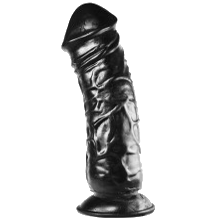
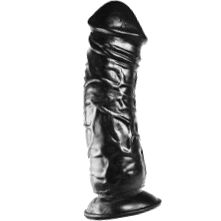
2 Gowns, bits and different Left + Top within groups
Puffball and Hobble gowns.
Bondage bouquet
Individual assets within a group can be given their own Left and Top attributes.
Slight change to preview pics fo to penis dildo and plug.

One known possible issue.
The Bondage bouquet only cuffs the persons wrists in front of them and should really prevent them from doing things, like the FullBodyShackles. For example once the bridesmaids are fully dressed with their bouquet, they can still help prepair the bride (When the wedding part is ready mittens can be applied if necissery). They do not "Block" the player. This means though that the rescue maid in the main hall will not notice the bouquet on it's own or remove it when they remove other bondage.

Changed region(s): [[0.2715, 0.0, 0.733, 1.0]]

diff --git a/BondageClub/Assets/Female3DCG/Female3DCG.js b/BondageClub/Assets/Female3DCG/Female3DCG.js
@@ -85,6 +85,8 @@ var AssetFemale3DCG = [
 			{ Name: "ShoulderlessTop", Value: 40, HideItem: ["ItemNipplesPiercingsRoundPiercing", "ItemNipplesPiercingsWeightedPiercing"] },
 			{ Name: "Dress3", Value: 80, Hide: ["ClothLower"], HideItem: [ "ItemNipplesPiercingsRoundPiercing", "ItemNipplesPiercingsWeightedPiercing", "ItemDevicesStrapOnSmooth", "ItemDevicesStrapOnStuds"] },
 			{ Name: "ComfyTop", Value: 60, Hide: ["ItemNipples", "ItemNipplesPiercings"], Expose: ["ItemVulva", "ItemVulvaPiercings", "ItemButt"] },
+			{ Name: "Gown1", Value: 70, HideItem: ["ClothLowerLatexSkirt1", "ClothLowerLatexSkirt2", "ClothLowerSkirt1", "ClothLowerSkirt2", "ClothLowerSkirt3", "ClothLowerTennisSkirt1", "ClothLowerClothSkirt1", "ItemNipplesPiercingsRoundPiercing", "ItemNipplesPiercingsWeightedPiercing", "ItemDevicesStrapOnSmooth", "ItemDevicesStrapOnStuds"] },
+			{ Name: "Gown2Top", Value: 90, BuyGroup: "Gown2", Left: 125, Top: 220, Require: ["ClothLower"], HideItem: ["ItemNipplesPiercingsRoundPiercing", "ItemNipplesPiercingsWeightedPiercing", "ItemDevicesStrapOnSmooth", "ItemDevicesStrapOnStuds"] }
 		]
 	},
 
@@ -162,7 +164,8 @@ var AssetFemale3DCG = [
 			{ Name: "LatexSkirt2", Priority: 26, Value: 60, Expose: ["ItemVulva", "ItemVulvaPiercings", "ItemButt"], HideItem: ["ItemDevicesStrapOnSmooth", "ItemDevicesStrapOnStuds"] },
 			{ Name: "ClothSkirt1", Priority: 26, Value: 40, Expose: ["ItemVulva", "ItemVulvaPiercings", "ItemButt"], HideItem: ["ItemDevicesStrapOnSmooth", "ItemDevicesStrapOnStuds"] },
 			{ Name: "Jeans2", Priority: 22, Hide: ["ItemVulvaPiercings"], HideItem: ["ItemButtAnalBeads2", "SocksSocksFur", "SocksSocks6", "VibratingLatexPanties", "WandBelt", "VibratingDildo", "InflatableVibeDildo", "ClitSuctionCup", "TapeStrips", "BenWaBalls", "HeavyWeightClamp"], Value: 20 },
-			{ Name: "ChineseSkirt1", Priority: 26, Value: 40, Expose: ["ItemVulva", "ItemVulvaPiercings", "ItemButt"], HideItem: ["ItemDevicesStrapOnSmooth", "ItemDevicesStrapOnStuds"] }
+			{ Name: "ChineseSkirt1", Priority: 26, Value: 40, Expose: ["ItemVulva", "ItemVulvaPiercings", "ItemButt"], HideItem: ["ItemDevicesStrapOnSmooth", "ItemDevicesStrapOnStuds"] },
+			{ Name: "Gown2Skirt", Priority: 26, Value: -1, BuyGroup: "Gown2", Left: 50, Top: 462, ParentItem: "Gown2Top", SetPose: ["LegsClosed"], HideItem: ["ItemDevicesStrapOnSmooth", "ItemDevicesStrapOnStuds"] }
 		]
 	},
 
@@ -1122,9 +1125,10 @@ var AssetFemale3DCG = [
 			{ Name: "Manacles", Random: false, Value: 120, AllowLock: true, SelfBondage: false, Difficulty: 16, SetPose: ["BackBoxTie", "Kneel"], Effect: ["Block", "Freeze", "Prone", "ForceKneel"], Time: 30, Prerequisite: ["NoItemFeet", "NotMounted", "NotSuspended", "NotHogtied", "NotKneelingSpread"], Block: ["ItemFeet"] },
 			{ Name: "FullBodyShackles", Random: false, Value: 150, AllowLock: true, Difficulty: 18, AllowPose: ["LegsClosed", "Kneel"], Effect: ["Prone", "Shackled"], Prerequisite: ["NoItemFeet", "NotMounted", "NotSuspended", "NotHogtied", "NotKneelingSpread"], Block: ["ItemFeet"]},
 			{ Name: "WristShackles", Random: false, Value: 80, AllowPose: ["BackCuffs"], Time: 20, Difficulty: 6, Extended: true, AllowLock: true, AllowEffect: ["Block", "Prone"], Effect: ["Prone"], AllowType: ["Behind"] },
-			{ Name: "StraitLeotard", DefaultColor: "#70C0C0", SelfBondage: false, SelfUnlock: false, Value: 120, SetPose: ["BackElbowTouch"], Hide: ["Cloth", "ItemNipplesPiercings"], HideItem: ["ItemButtAnalBeads2", "ClothLowerSkirt1", "ClothLowerSkirt2", "ClothLowerSkirt3", "ClothLowerTennisSkirt1", "ItemVulvaVibratingDildo", "ItemVulvaInflatableVibeDildo", "ItemVulvaClitSuctionCup"], Block: ["ItemNipples", "ItemNipplesPiercings", "ItemVulva", "ItemVulvaPiercings", "ItemButt", "ItemPelvis", "ItemTorso", "ItemBreast", "ItemHands"], Effect: ["Block", "Prone"], Time: 35, RemoveTime: 20, Difficulty: 13, AllowLock: true },
-			{ Name: "StraitJacket", DefaultColor: "#A0A0A0", SelfBondage: false, SelfUnlock: false, Extended: true, Value: 150, SetPose: ["BackElbowTouch"], Hide: ["Cloth", "ItemNipplesPiercings"], HideItem: ["ClothLowerSkirt1", "ClothLowerSkirt2", "ClothLowerSkirt3", "ClothLowerTennisSkirt1"], Block: ["ItemNipples", "ItemNipplesPiercings", "ItemTorso", "ItemBreast", "ItemHands"], Effect: ["Block", "Prone"], Time: 35, RemoveTime: 20, Difficulty: 6, AllowLock: true },	
-			{ Name: "CollarCuffs", SelfBondage: false, SelfUnlock: false, Extended: true, Value: 60, Prerequisite: "Collared", SetPose: ["BackBoxTie"], Block: ["ItemHands", "ItemNeck"], Effect: ["Block", "Prone"], Time: 35, RemoveTime: 20, Difficulty: 9, AllowLock: true, Visible: false },	{ Name: "LeatherStraitJacket", SelfBondage: false, SelfUnlock: false, Extended: true, Value: 200, SetPose: ["BackElbowTouch"], Hide: ["Cloth", "ItemNipplesPiercings"], HideItem: ["ClothLowerSkirt1", "ClothLowerTennisSkirt1"], Block: ["ItemNipples", "ItemNipplesPiercings", "ItemTorso", "ItemBreast", "ItemHands"], Effect: ["Block", "Prone"], Time: 45, RemoveTime: 30, Difficulty: 7, AllowLock: true, AllowType: ["Normal", "Snug", "Tight"] },
+			{ Name: "StraitLeotard", DefaultColor: "#70C0C0", SelfBondage: false, SelfUnlock: false, Value: 120, SetPose: ["BackElbowTouch"], Hide: ["Cloth", "ItemNipplesPiercings"], HideItem: ["ItemButtAnalBeads2", "ClothLowerSkirt1", "ClothLowerSkirt2", "ClothLowerSkirt3", "ClothLowerTennisSkirt1", "ClothLowerGown2Skirt", "ItemVulvaVibratingDildo", "ItemVulvaInflatableVibeDildo", "ItemVulvaClitSuctionCup"], Block: ["ItemNipples", "ItemNipplesPiercings", "ItemVulva", "ItemVulvaPiercings", "ItemButt", "ItemPelvis", "ItemTorso", "ItemBreast", "ItemHands"], Effect: ["Block", "Prone"], Time: 35, RemoveTime: 20, Difficulty: 13, AllowLock: true },
+			{ Name: "StraitJacket", DefaultColor: "#A0A0A0", SelfBondage: false, SelfUnlock: false, Extended: true, Value: 150, SetPose: ["BackElbowTouch"], Hide: ["Cloth", "ItemNipplesPiercings"], HideItem: ["ClothLowerSkirt1", "ClothLowerSkirt2", "ClothLowerSkirt3", "ClothLowerTennisSkirt1", "ClothLowerGown2Skirt"], Block: ["ItemNipples", "ItemNipplesPiercings", "ItemTorso", "ItemBreast", "ItemHands"], Effect: ["Block", "Prone"], Time: 35, RemoveTime: 20, Difficulty: 6, AllowLock: true },	
+			{ Name: "CollarCuffs", SelfBondage: false, SelfUnlock: false, Extended: true, Value: 60, Prerequisite: "Collared", SetPose: ["BackBoxTie"], Block: ["ItemHands", "ItemNeck"], Effect: ["Block", "Prone"], Time: 35, RemoveTime: 20, Difficulty: 9, AllowLock: true, Visible: false },
+			{ Name: "LeatherStraitJacket", SelfBondage: false, SelfUnlock: false, Extended: true, Value: 200, SetPose: ["BackElbowTouch"], Hide: ["Cloth", "ItemNipplesPiercings"], HideItem: ["ClothLowerSkirt1", "ClothLowerSkirt2", "ClothLowerSkirt3", "ClothLowerTennisSkirt1", "ClothLowerGown2Skirt"], Block: ["ItemNipples", "ItemNipplesPiercings", "ItemTorso", "ItemBreast", "ItemHands"], Effect: ["Block", "Prone"], Time: 45, RemoveTime: 30, Difficulty: 7, AllowLock: true, AllowType: ["Normal", "Snug", "Tight"] },
 			{ 
 				Name: "Bolero", DefaultColor: "#E080A0", SelfBondage: false, SelfUnlock: false, Value: 100, SetPose: ["BackElbowTouch", "Bolero"], Block: ["ItemHands"], Effect: ["Block", "Prone"], Time: 35, RemoveTime: 20, Difficulty: 11, AllowLock: true,
 				Layer: [
@@ -1192,6 +1196,13 @@ var AssetFemale3DCG = [
 			},
 			{ Name: "Zipties", SelfBondage: true, Value: 20, SetPose: ["BackElbowTouch"], Effect: ["Block", "Prone"], Difficulty: 6, BuyGroup: "Zipties", RemoveTime: 6 },
 			{ Name: "BoxTieArmbinder", SelfBondage: false, SelfUnlock: false, Value: 140, SetPose: ["BackElbowTouch", "Bolero"], Block: ["ItemHands"], Effect: ["Block", "Prone"], Time: 40, RemoveTime: 30, Difficulty: 11, AllowLock: true },
+			{ 
+				Name: "BondageBouquet", Value: 40, Priority: 35, Effect: ["Prone"], Time: 15, AllowLock: true, Random: false,
+				Layer: [
+					{ Name: "Base", AllowColorize: false },
+					{ Name: "Flowers", AllowColorize: true }
+				]
+			},
 			AssetSpankingToys
 		]
 	},

diff --git a/BondageClub/Scripts/GLDraw.js b/BondageClub/Scripts/GLDraw.js
@@ -330,6 +330,8 @@ function GLDrawAppearanceBuild(C) {
             // Find the X and Y position to draw on
             var X = CA.Asset.Group.DrawingLeft;
             var Y = CA.Asset.Group.DrawingTop;
+			if (CA.Asset.DrawingLeft != null) X = CA.Asset.DrawingLeft;
+			if (CA.Asset.DrawingTop != null) Y = CA.Asset.DrawingTop;
             if (C.Pose != null)
                 for (var CP = 0; CP < C.Pose.length; CP++)
                     for (var P = 0; P < PoseFemale3DCG.length; P++)

diff --git a/BondageClub/Scripts/Asset.js b/BondageClub/Scripts/Asset.js
@@ -70,6 +70,8 @@ function AssetAdd(NewAsset) {
 		RemoveTimer: (NewAsset.RemoveTimer == null) ? 0 : NewAsset.RemoveTimer,
 		MaxTimer: (NewAsset.MaxTimer == null) ? 0 : NewAsset.MaxTimer,
 		DrawingPriority: NewAsset.Priority,
+		DrawingLeft: NewAsset.Left,
+		DrawingTop: NewAsset.Top,
 		HeightModifier: (NewAsset.Height == null) ? 0 : NewAsset.Height,
 		ZoomModifier: (NewAsset.Zoom == null) ? 1 : NewAsset.Zoom,
 		Alpha: NewAsset.Alpha,

diff --git a/BondageClub/Screens/Character/Appearance/Appearance.js b/BondageClub/Screens/Character/Appearance/Appearance.js
@@ -274,6 +274,8 @@ function CharacterAppearanceBuildCanvas(C) {
 			// Find the X and Y position to draw on
 			var X = CA.Asset.Group.DrawingLeft;
 			var Y = CA.Asset.Group.DrawingTop;
+			if (CA.Asset.DrawingLeft != null) X = CA.Asset.DrawingLeft;
+			if (CA.Asset.DrawingTop != null) Y = CA.Asset.DrawingTop;
 			if (C.Pose != null)
 				for (var CP = 0; CP < C.Pose.length; CP++)
 					for (var P = 0; P < PoseFemale3DCG.length; P++)
